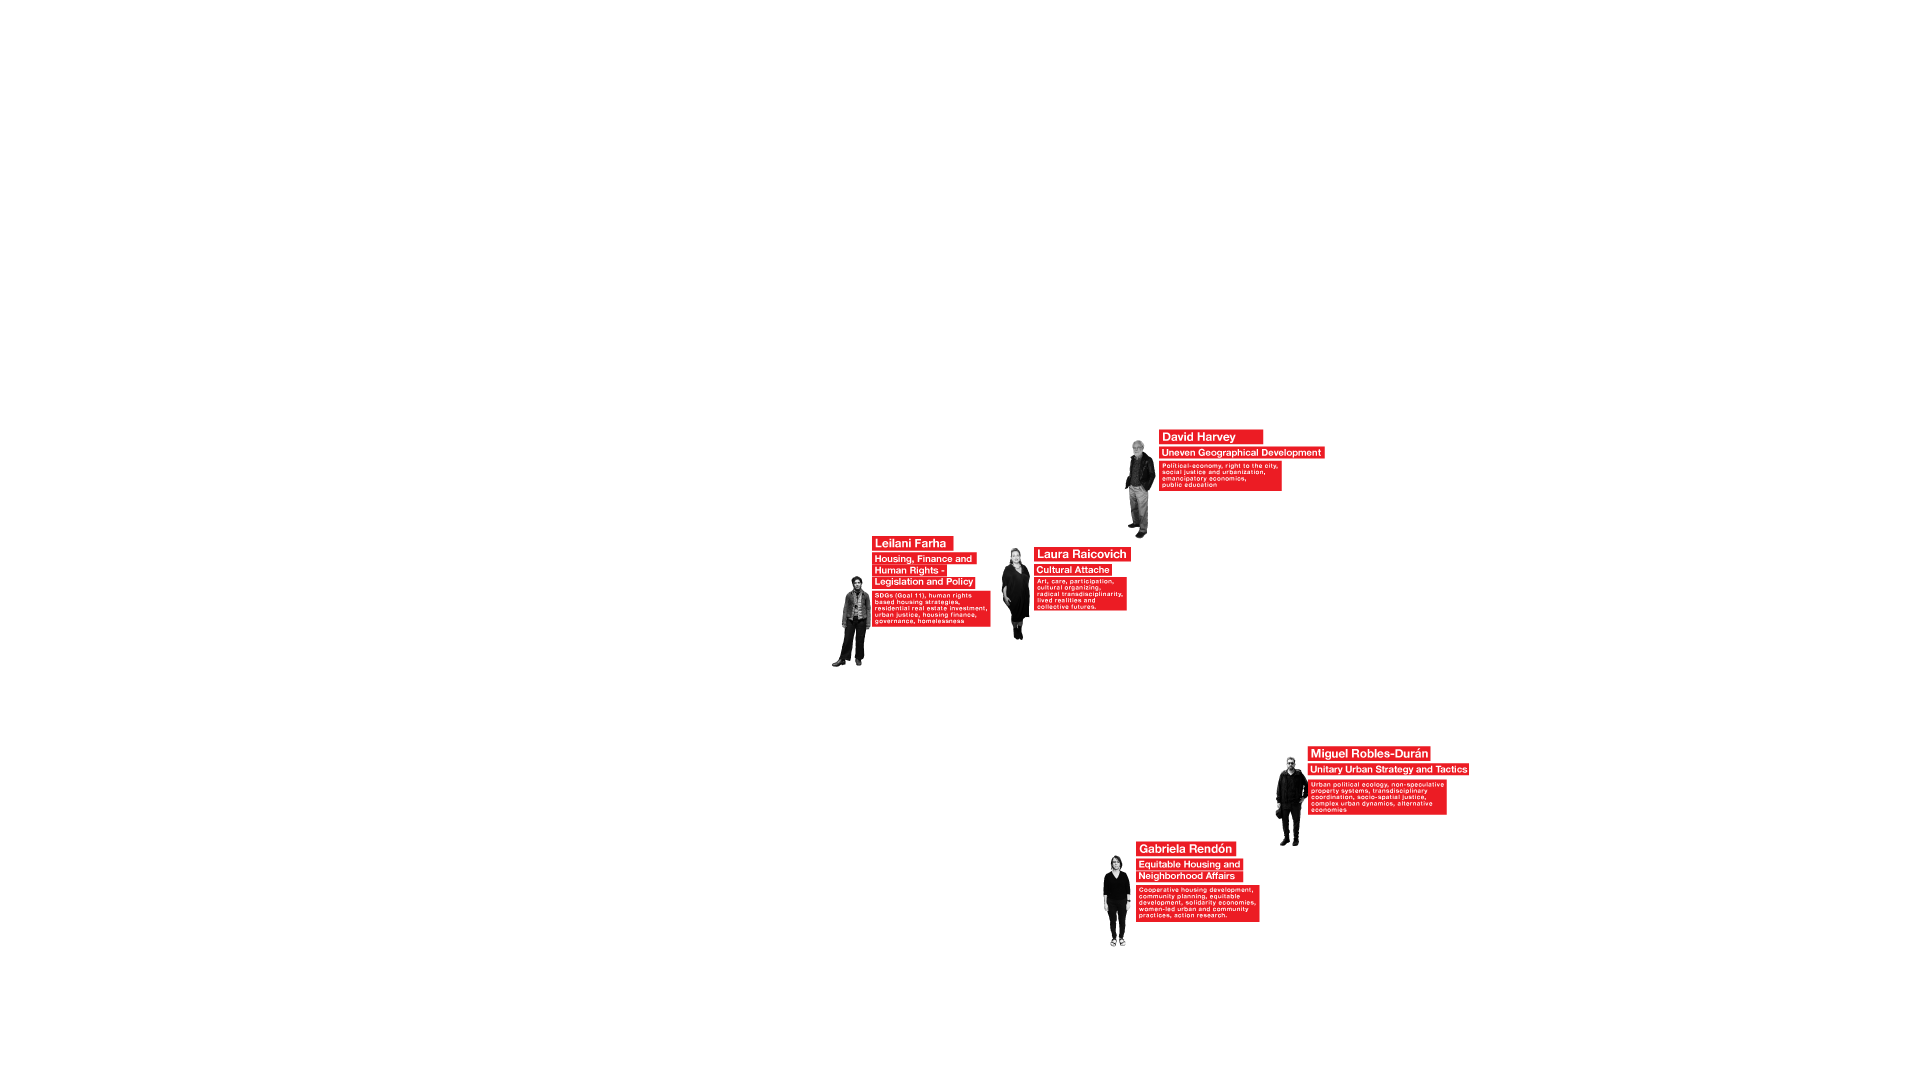
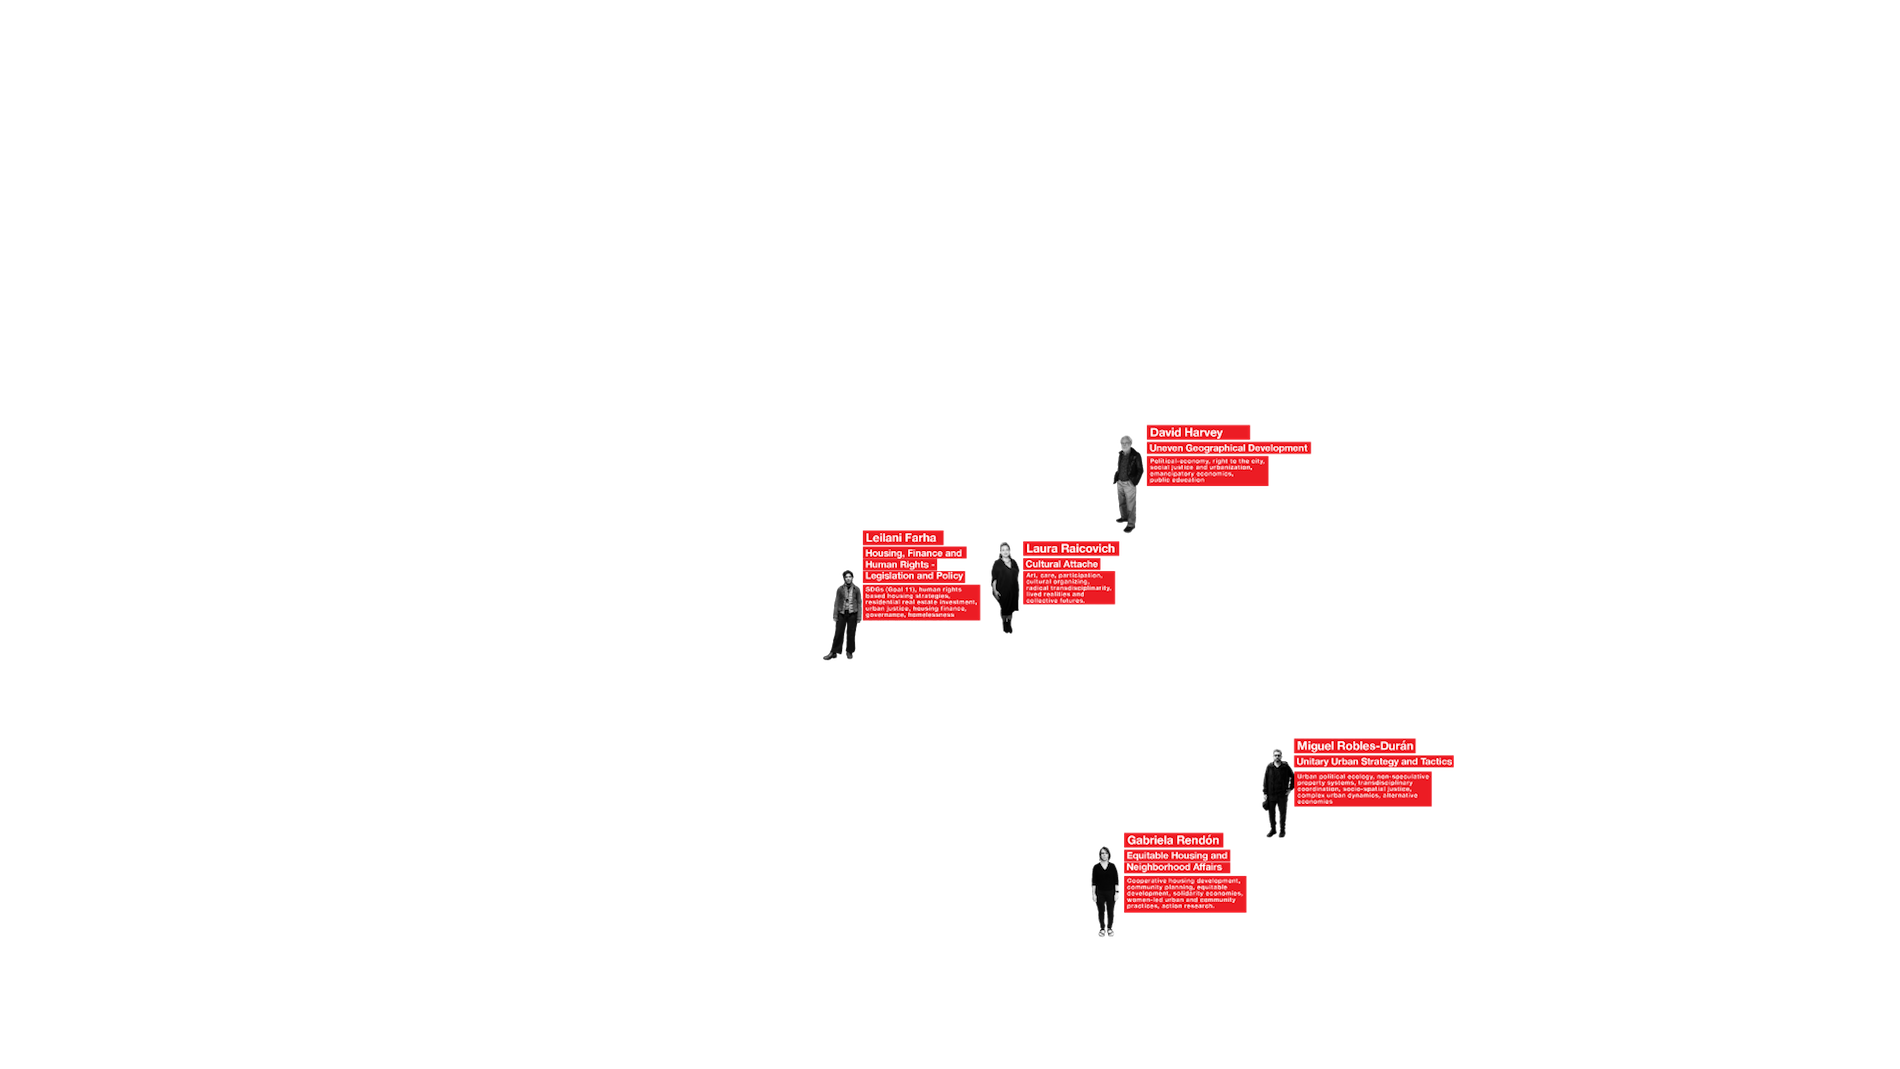
Fixing sizing of images hopefully this fucking works

diff --git a/src/ofApp.cpp b/src/ofApp.cpp
@@ -6,7 +6,6 @@ void ofApp::setup(){
 	ofSetCircleResolution(100);
 	width = ofGetWidth();
 	height = ofGetHeight();
-	cout << "WIDTH: " << width << " HEIGHT: " << height << endl;
 	mySerial.listDevices();
 	vector <ofSerialDeviceInfo> deviceList = mySerial.getDeviceList();
 	mySerial.setup(0, baud); //open the first device
@@ -145,7 +144,6 @@ void ofApp::updateSerials(){
 
 //--------------------------------------------------------------
 void ofApp::onNewMessage(string & message){
-	cout << "THE MESSAGE " << message << endl;
 	vector<string> input = ofSplitString(message, ",");
 	serialInput.clear();
 	for (int i = 0; i < input.size() - 1; i++) {
